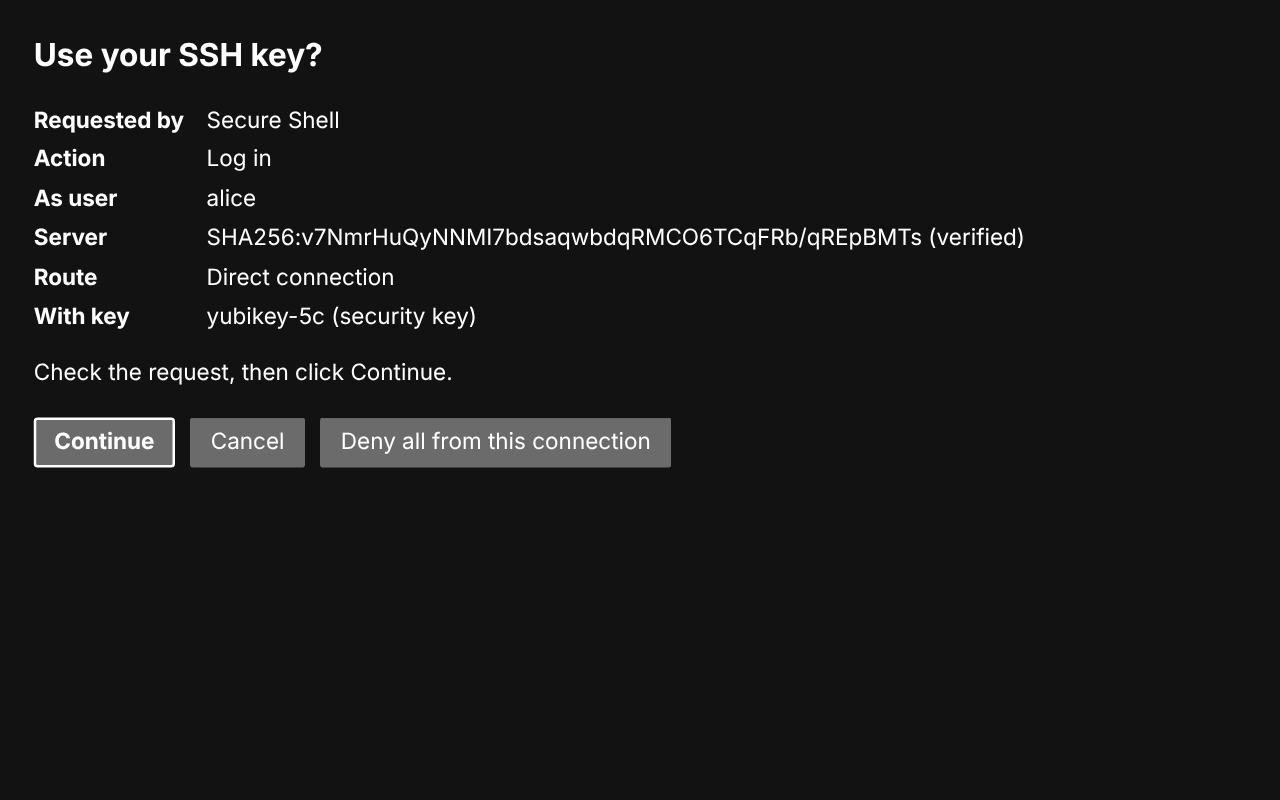
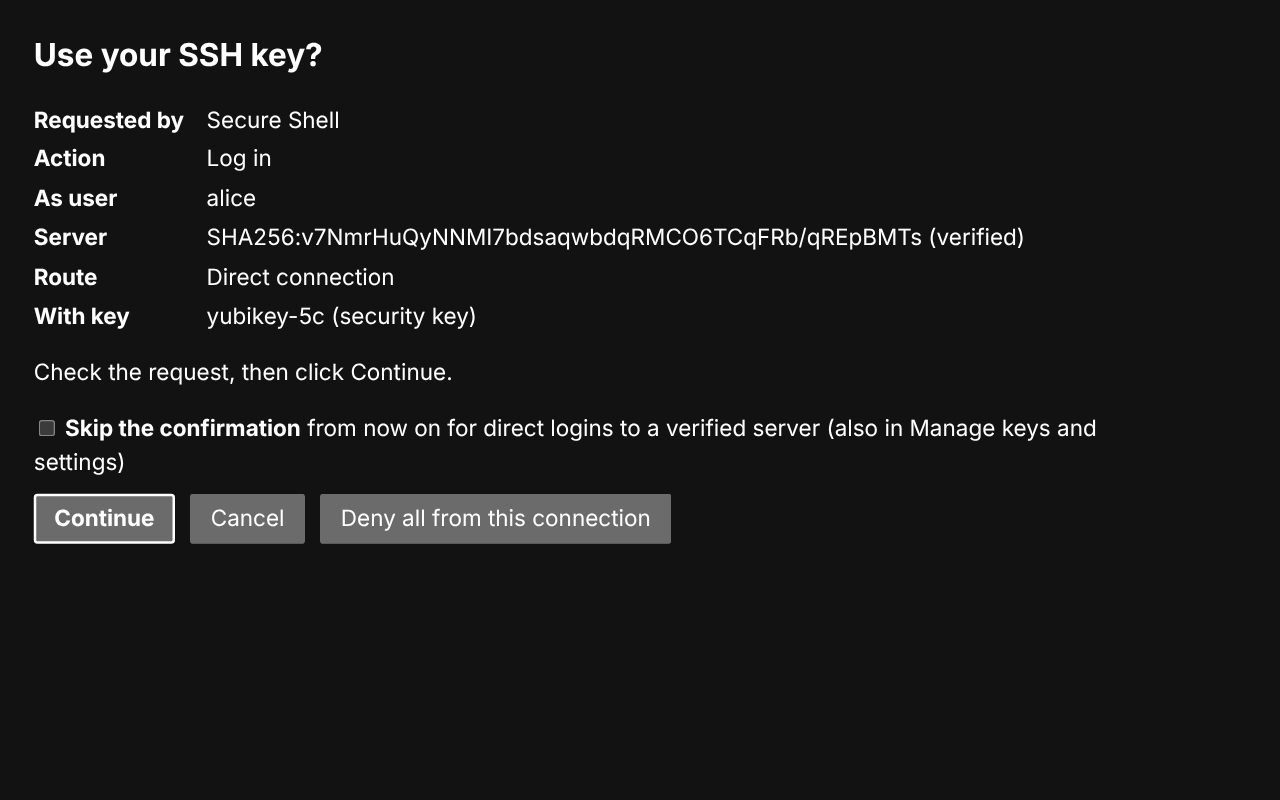
Make text larger in Manage keys and settings
18px text, and code at a size matching it rather than the browsers'
smaller monospace default.

Changed region(s): [[0.0, 0.5, 0.8438, 0.6875]]

diff --git a/src/style.css b/src/style.css
@@ -3,7 +3,7 @@
 :root {
   color-scheme: light dark;
   font-family: system-ui, sans-serif;
-  font-size: 16px;
+  font-size: 18px;
   line-height: 1.5;
 }
 
@@ -29,6 +29,8 @@ h2 {
 code,
 .key-line {
   font-family: ui-monospace, monospace;
+  /* Not the browsers' smaller default for monospace. */
+  font-size: 0.85rem;
 }
 
 button {
